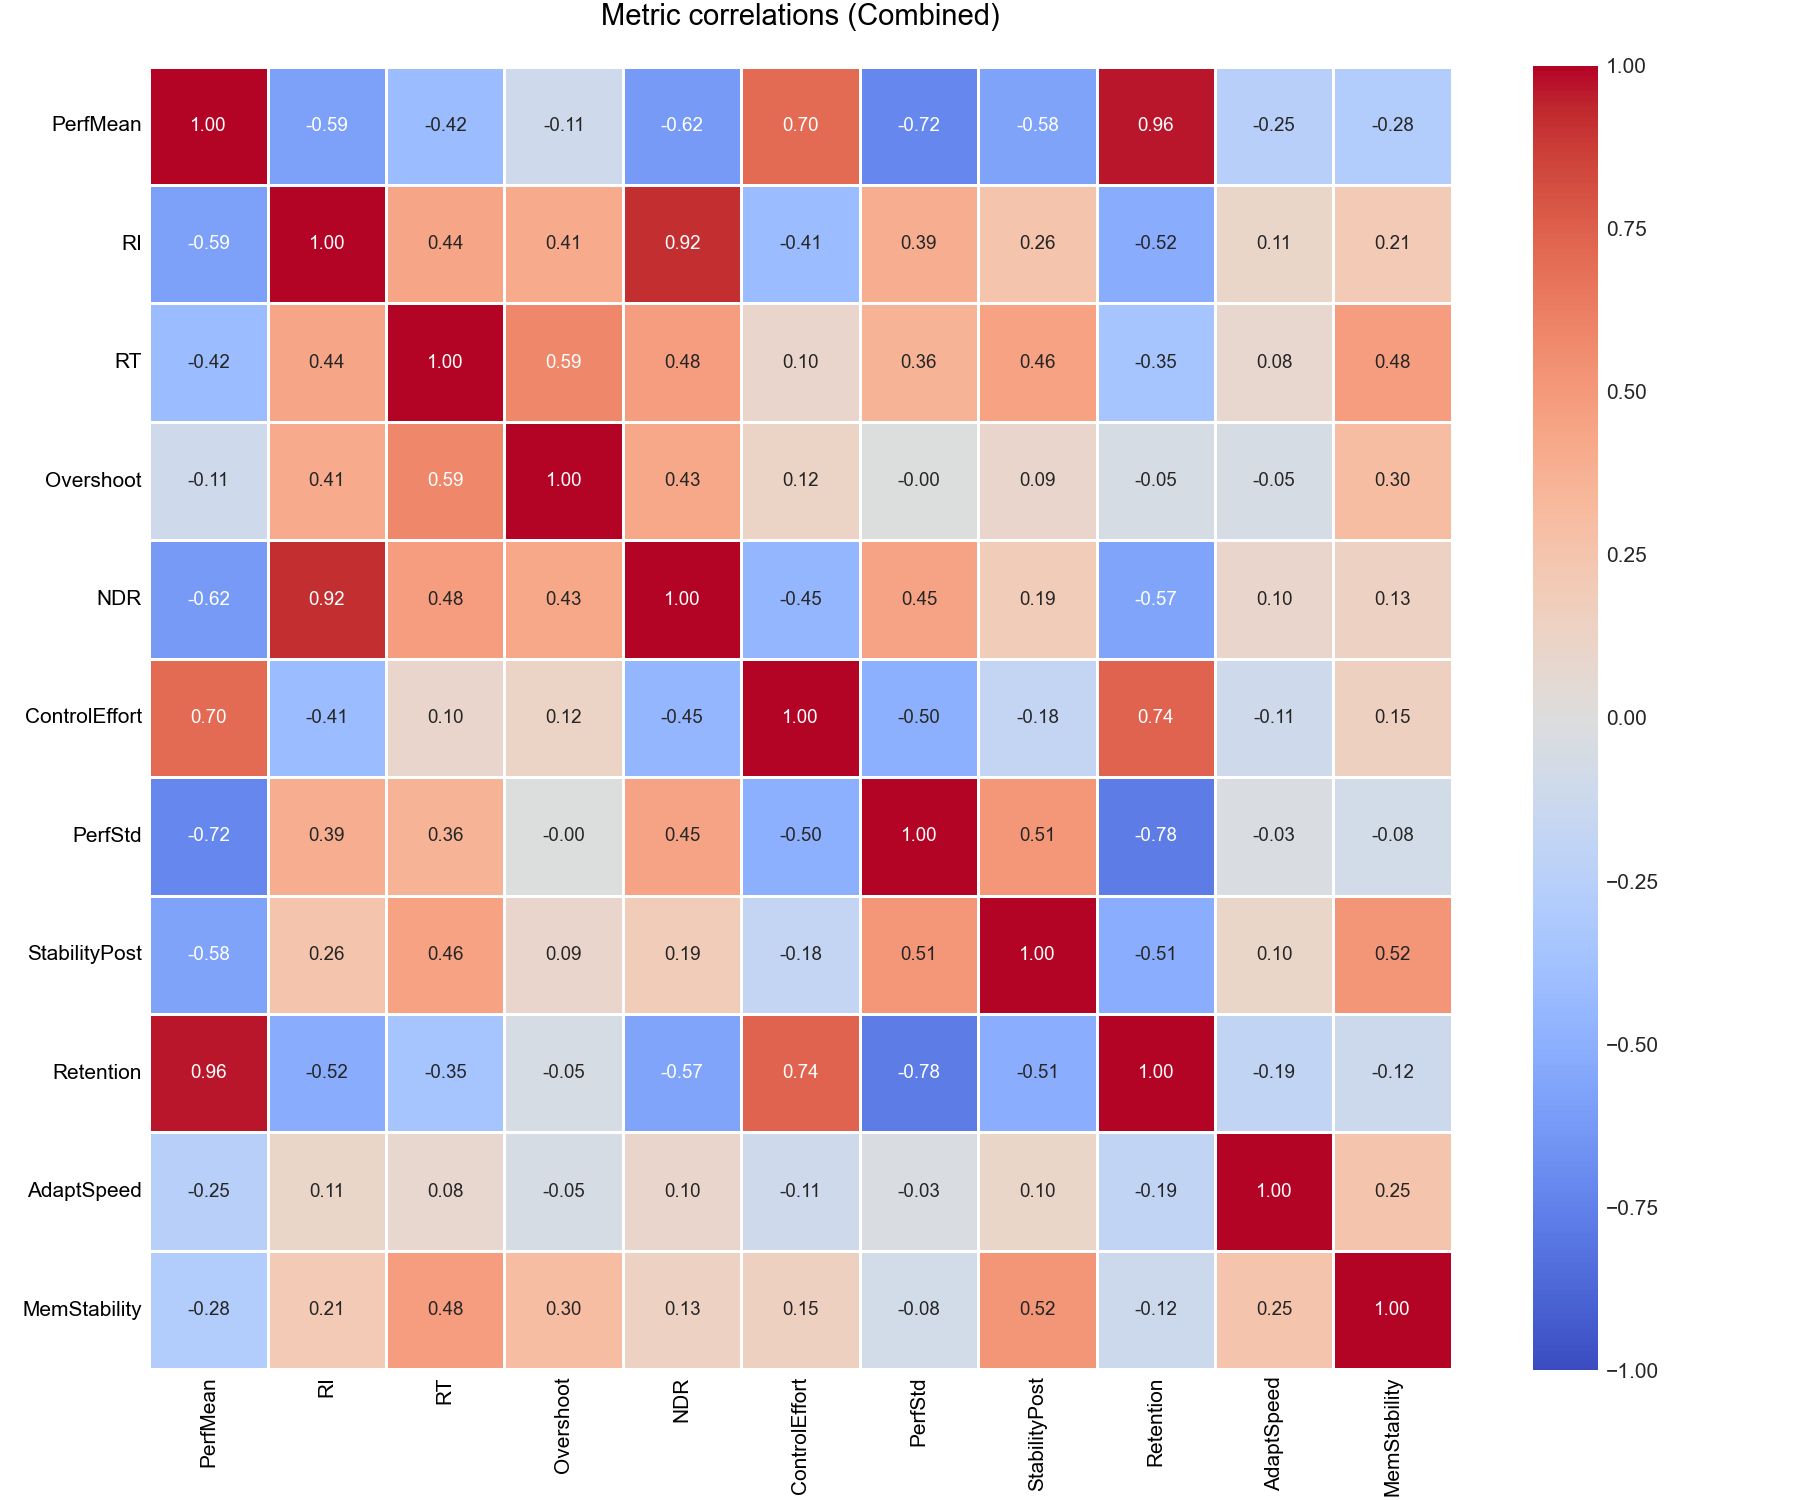
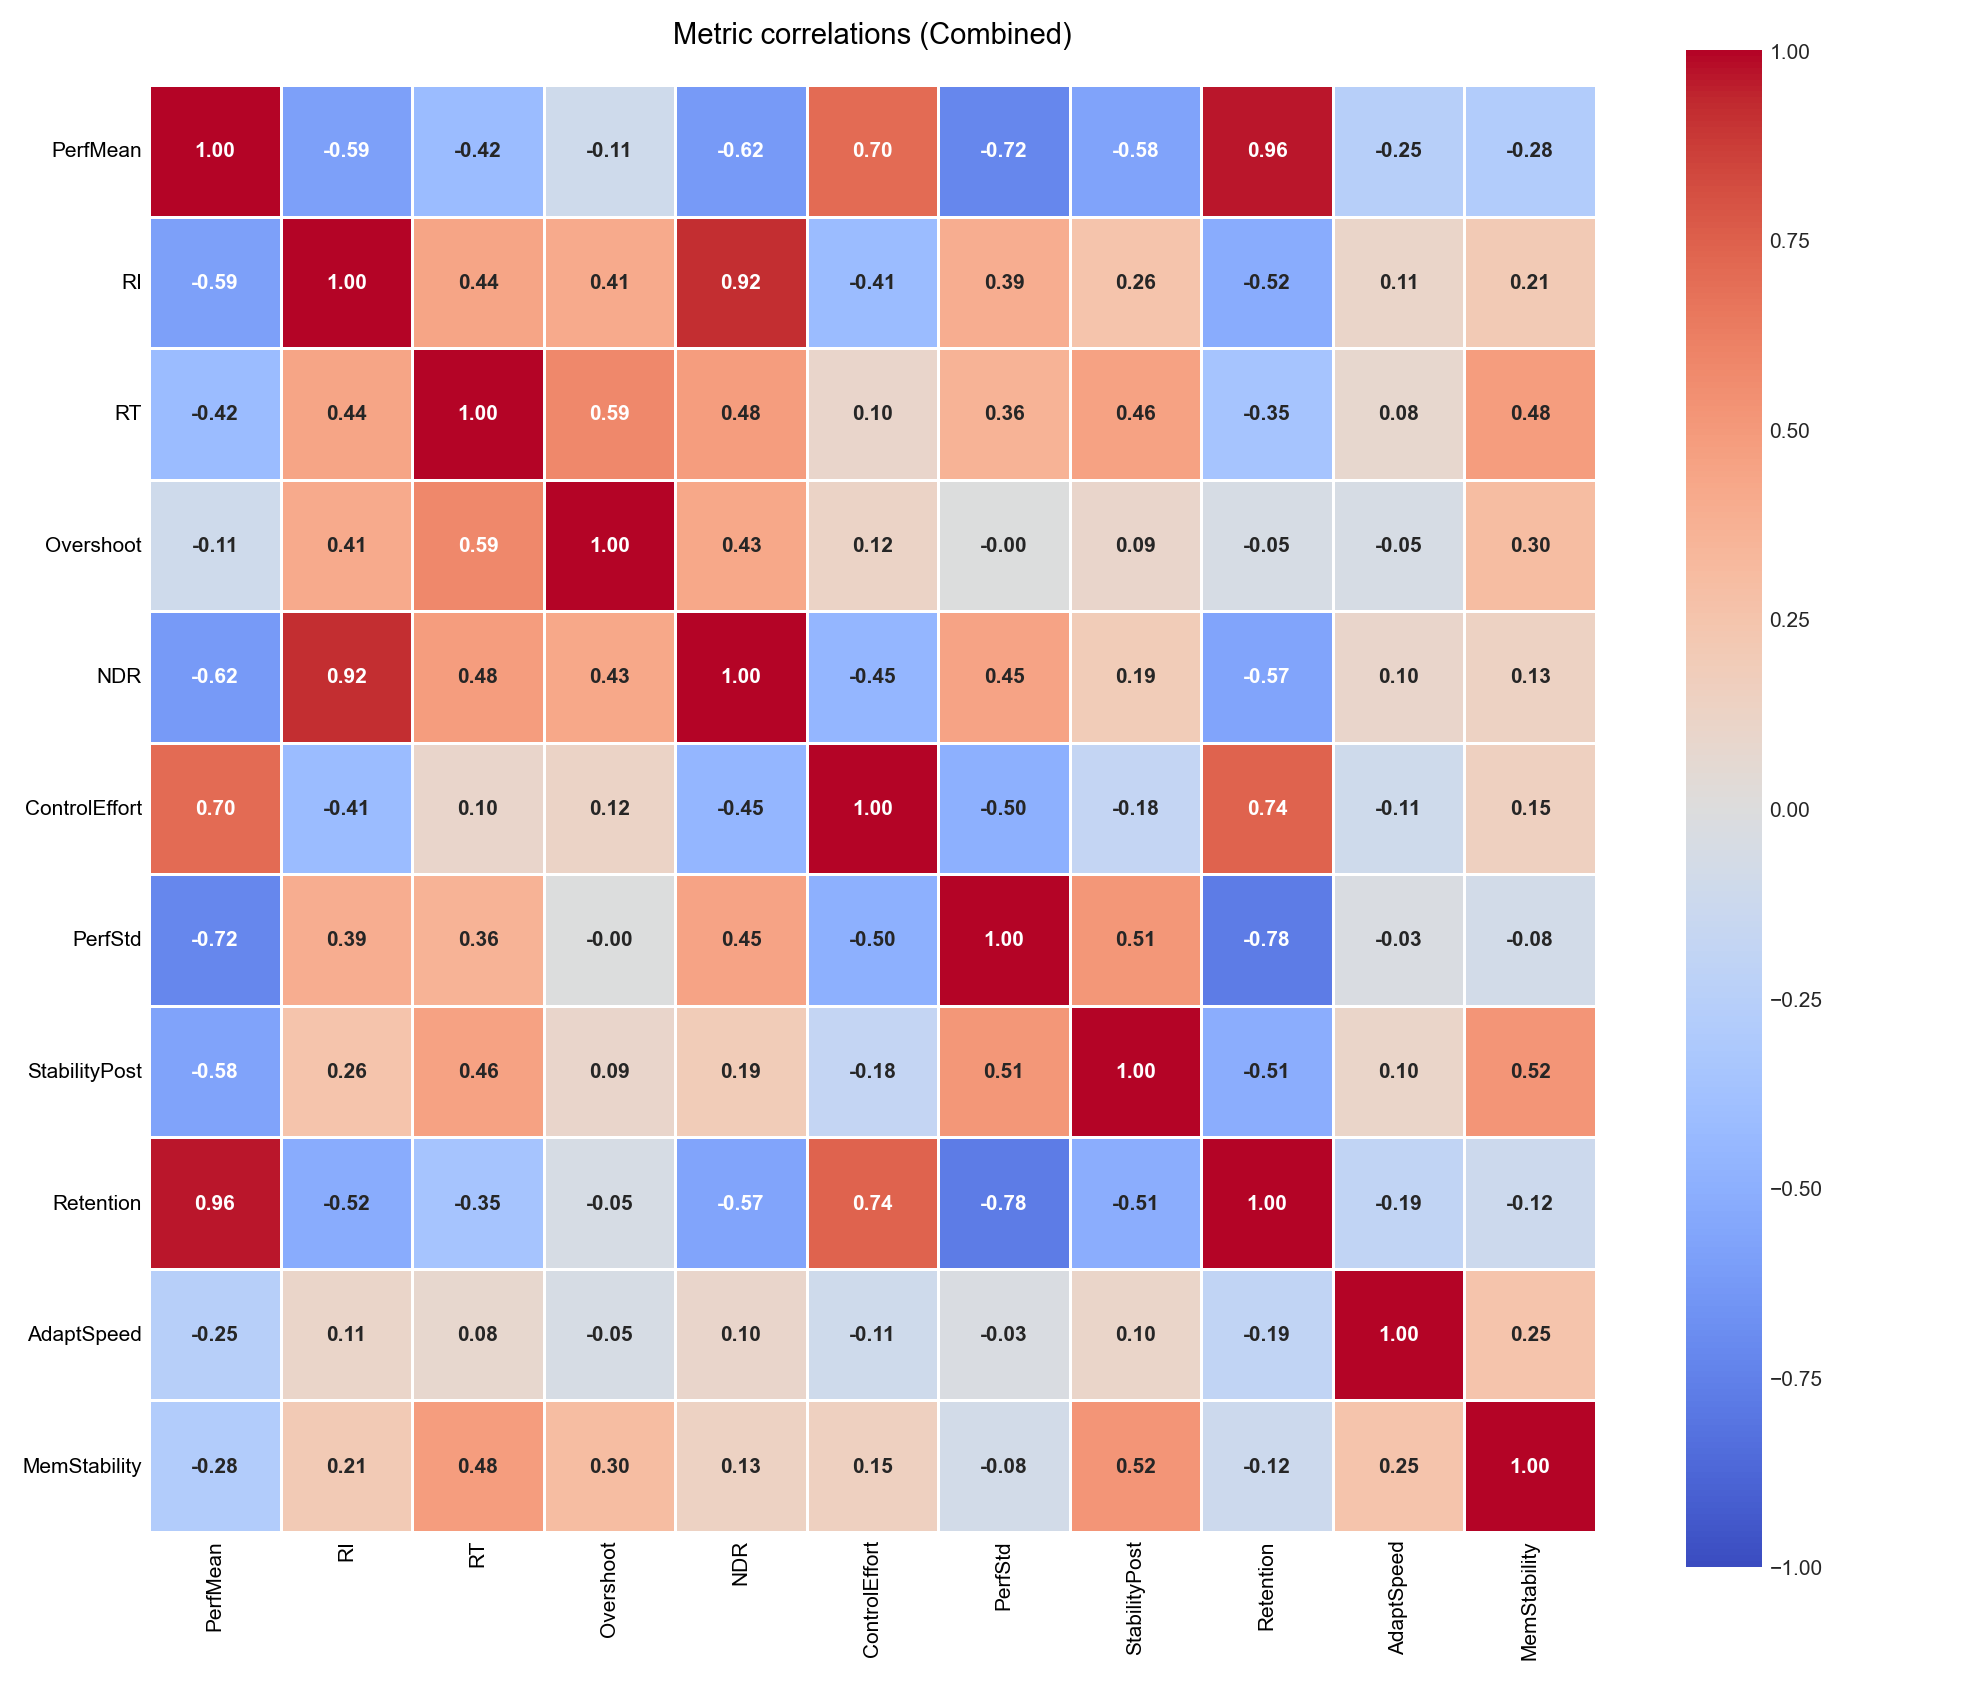
fix: Improve correlation heatmap annotations with dynamic sizing and bold font

diff --git a/experiments/analyze_correlations.py b/experiments/analyze_correlations.py
@@ -39,8 +39,10 @@ def create_correlation_heatmap(df: pd.DataFrame, title: str, save_path: Path):
         
     corr_df = df[valid_cols].corr()
     
-    # Create figure
-    fig, ax = plt.subplots(figsize=(12, 10))
+    # Create figure - larger for better annotation visibility
+    n_cols = len(corr_df.columns)
+    fig_size = max(12, n_cols * 1.2)  # Scale with number of columns
+    fig, ax = plt.subplots(figsize=(fig_size, fig_size * 0.85))
     fig.patch.set_facecolor("white")
     ax.set_facecolor("white")
     
@@ -49,6 +51,9 @@ def create_correlation_heatmap(df: pd.DataFrame, title: str, save_path: Path):
     
     # Always annotate values as requested
     do_annot = True
+    
+    # Adjust font size based on matrix size
+    annot_fontsize = max(6, min(10, 120 // n_cols))
         
     sns.heatmap(corr_df, 
                 mask=mask,
@@ -60,7 +65,7 @@ def create_correlation_heatmap(df: pd.DataFrame, title: str, save_path: Path):
                 linewidths=0.5,
                 ax=ax,
                 vmin=-1, vmax=1,
-                annot_kws={'size': 9})
+                annot_kws={'size': annot_fontsize, 'weight': 'bold'})
     
     ax.set_title(title, fontsize=14, color="black", pad=20)
     ax.tick_params(colors="black")
